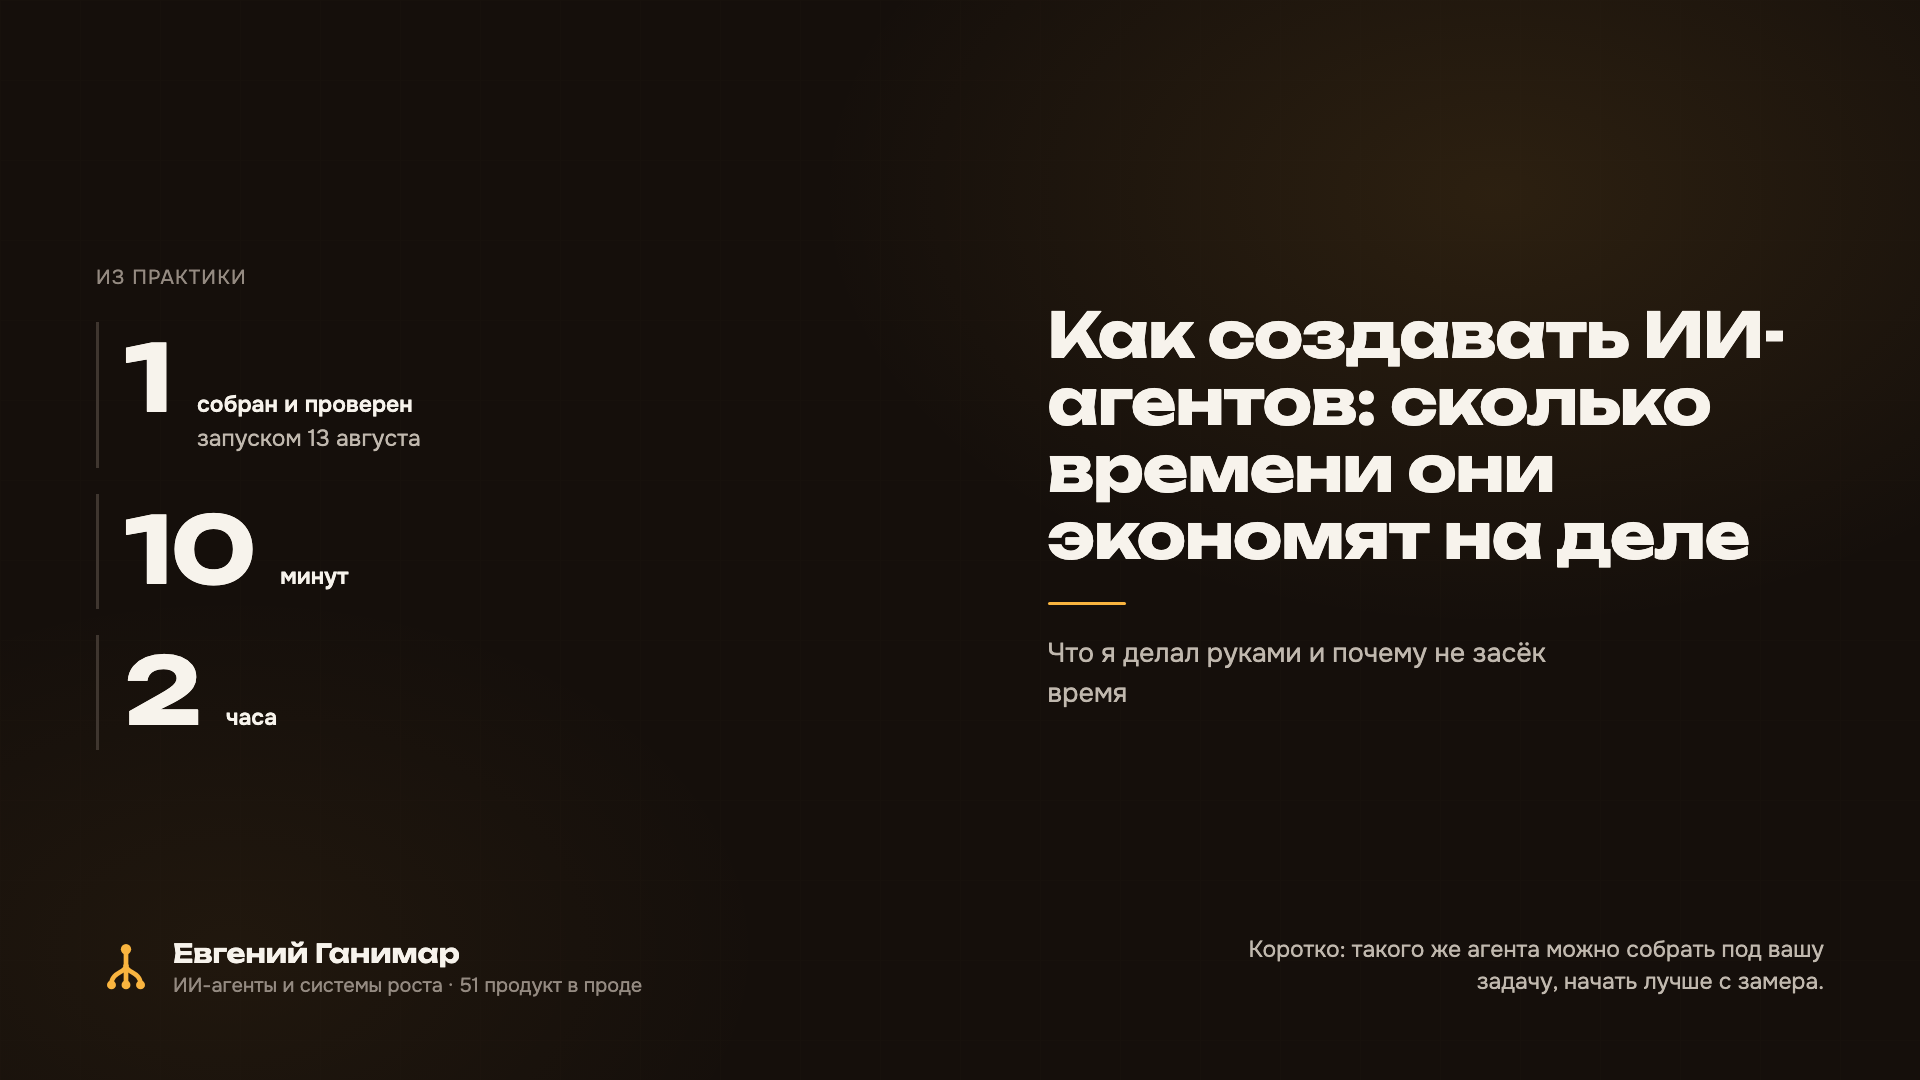
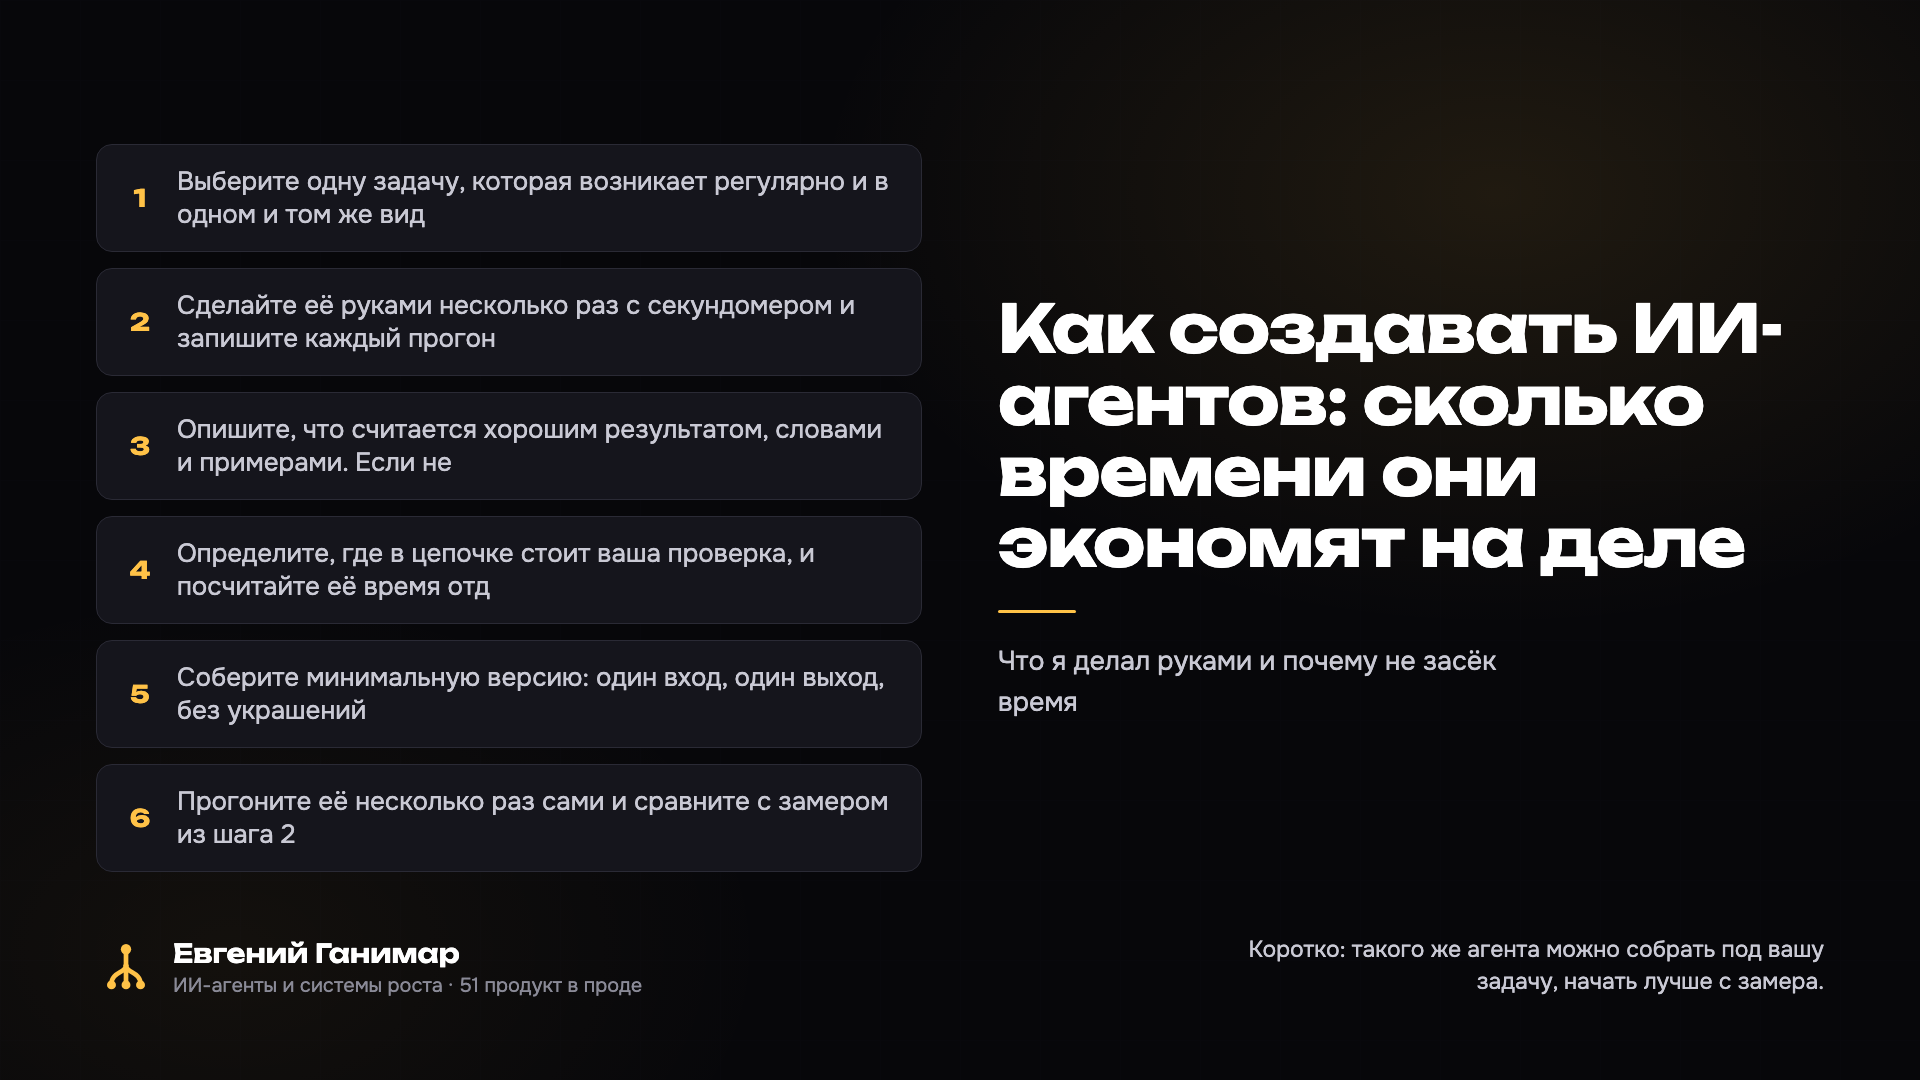
Блог: Как создавать ИИ-агентов: сколько времени они экономят на деле
Опубликовано контент-заводом.

diff --git a/blog/skolko-ekonomit-ii-agent.html b/blog/skolko-ekonomit-ii-agent.html
@@ -109,7 +109,7 @@
 
     <figure class="article-cover"><img src="/assets/previews/blog-skolko-ekonomit-ii-agent.png" alt="Как создавать ИИ-агентов: сколько времени они экономят на деле" width="1200" height="675" decoding="async" /></figure>
     <article class="article-body">
-<p>Такие разборы я делаю регулярно, и разбор по этой теме лежит в моём канале про <a href="https://t.me/neuromag_ai?utm_source=blog&amp;utm_medium=post&amp;utm_campaign=item-0161" target="_blank" rel="noopener noreferrer">нейросети и ИИ-агентов</a></p>
+<p>Такие разборы я делаю регулярно, и разбор по этой теме лежит в моём канале про <a href="https://t.me/clients_inForbes/638?utm_source=blog&amp;utm_medium=post&amp;utm_campaign=item-0161" target="_blank" rel="noopener noreferrer">нейросети и ИИ-агентов</a></p>
 <h2>Что я делал руками и почему не засёк время</h2>
 <p>Коротко: у меня нет замера «часов до» по большинству систем, и это моя ошибка, а не особенность темы.</p>
 <p>Начну с неудобного. Когда я собирал конвейер новостей об ИИ, я не включал секундомер на ручной версии: искать источники, проверять факты, выбирать тему дня, писать пост для Telegram. Я знал, что это «долго». Слово «долго» не число, и через месяц я не смогу честно сказать, сколько часов конвейер мне вернул.</p>
